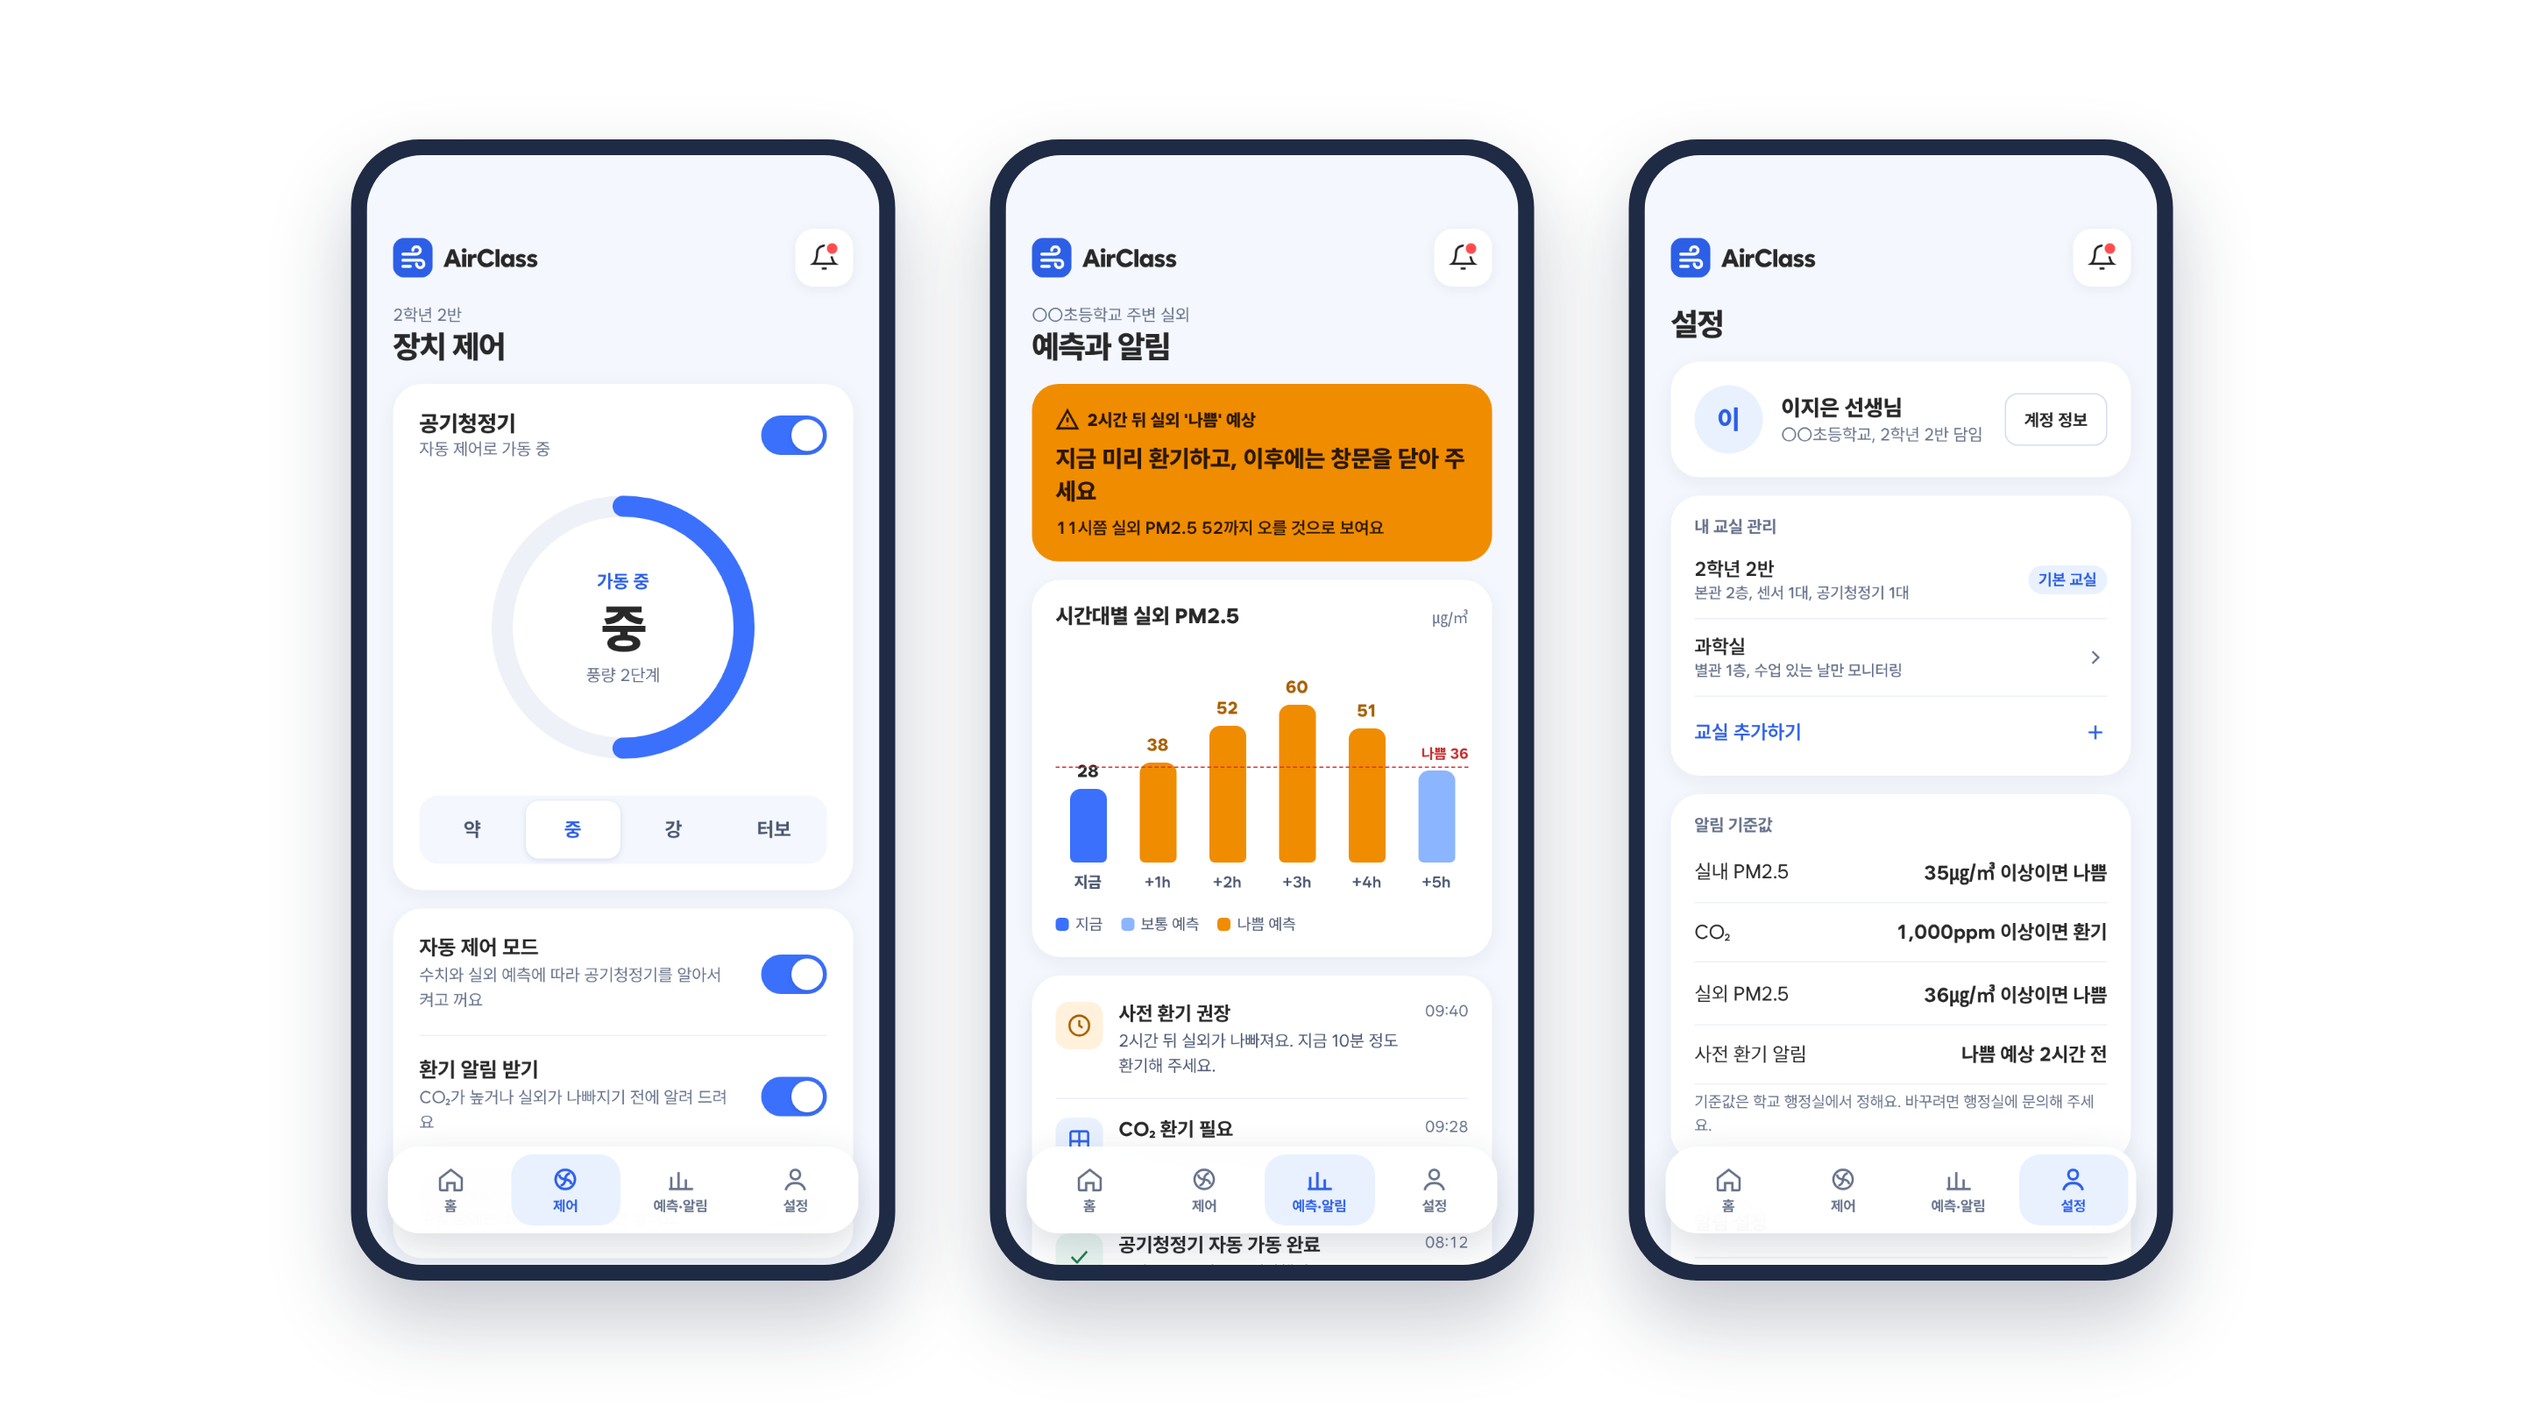
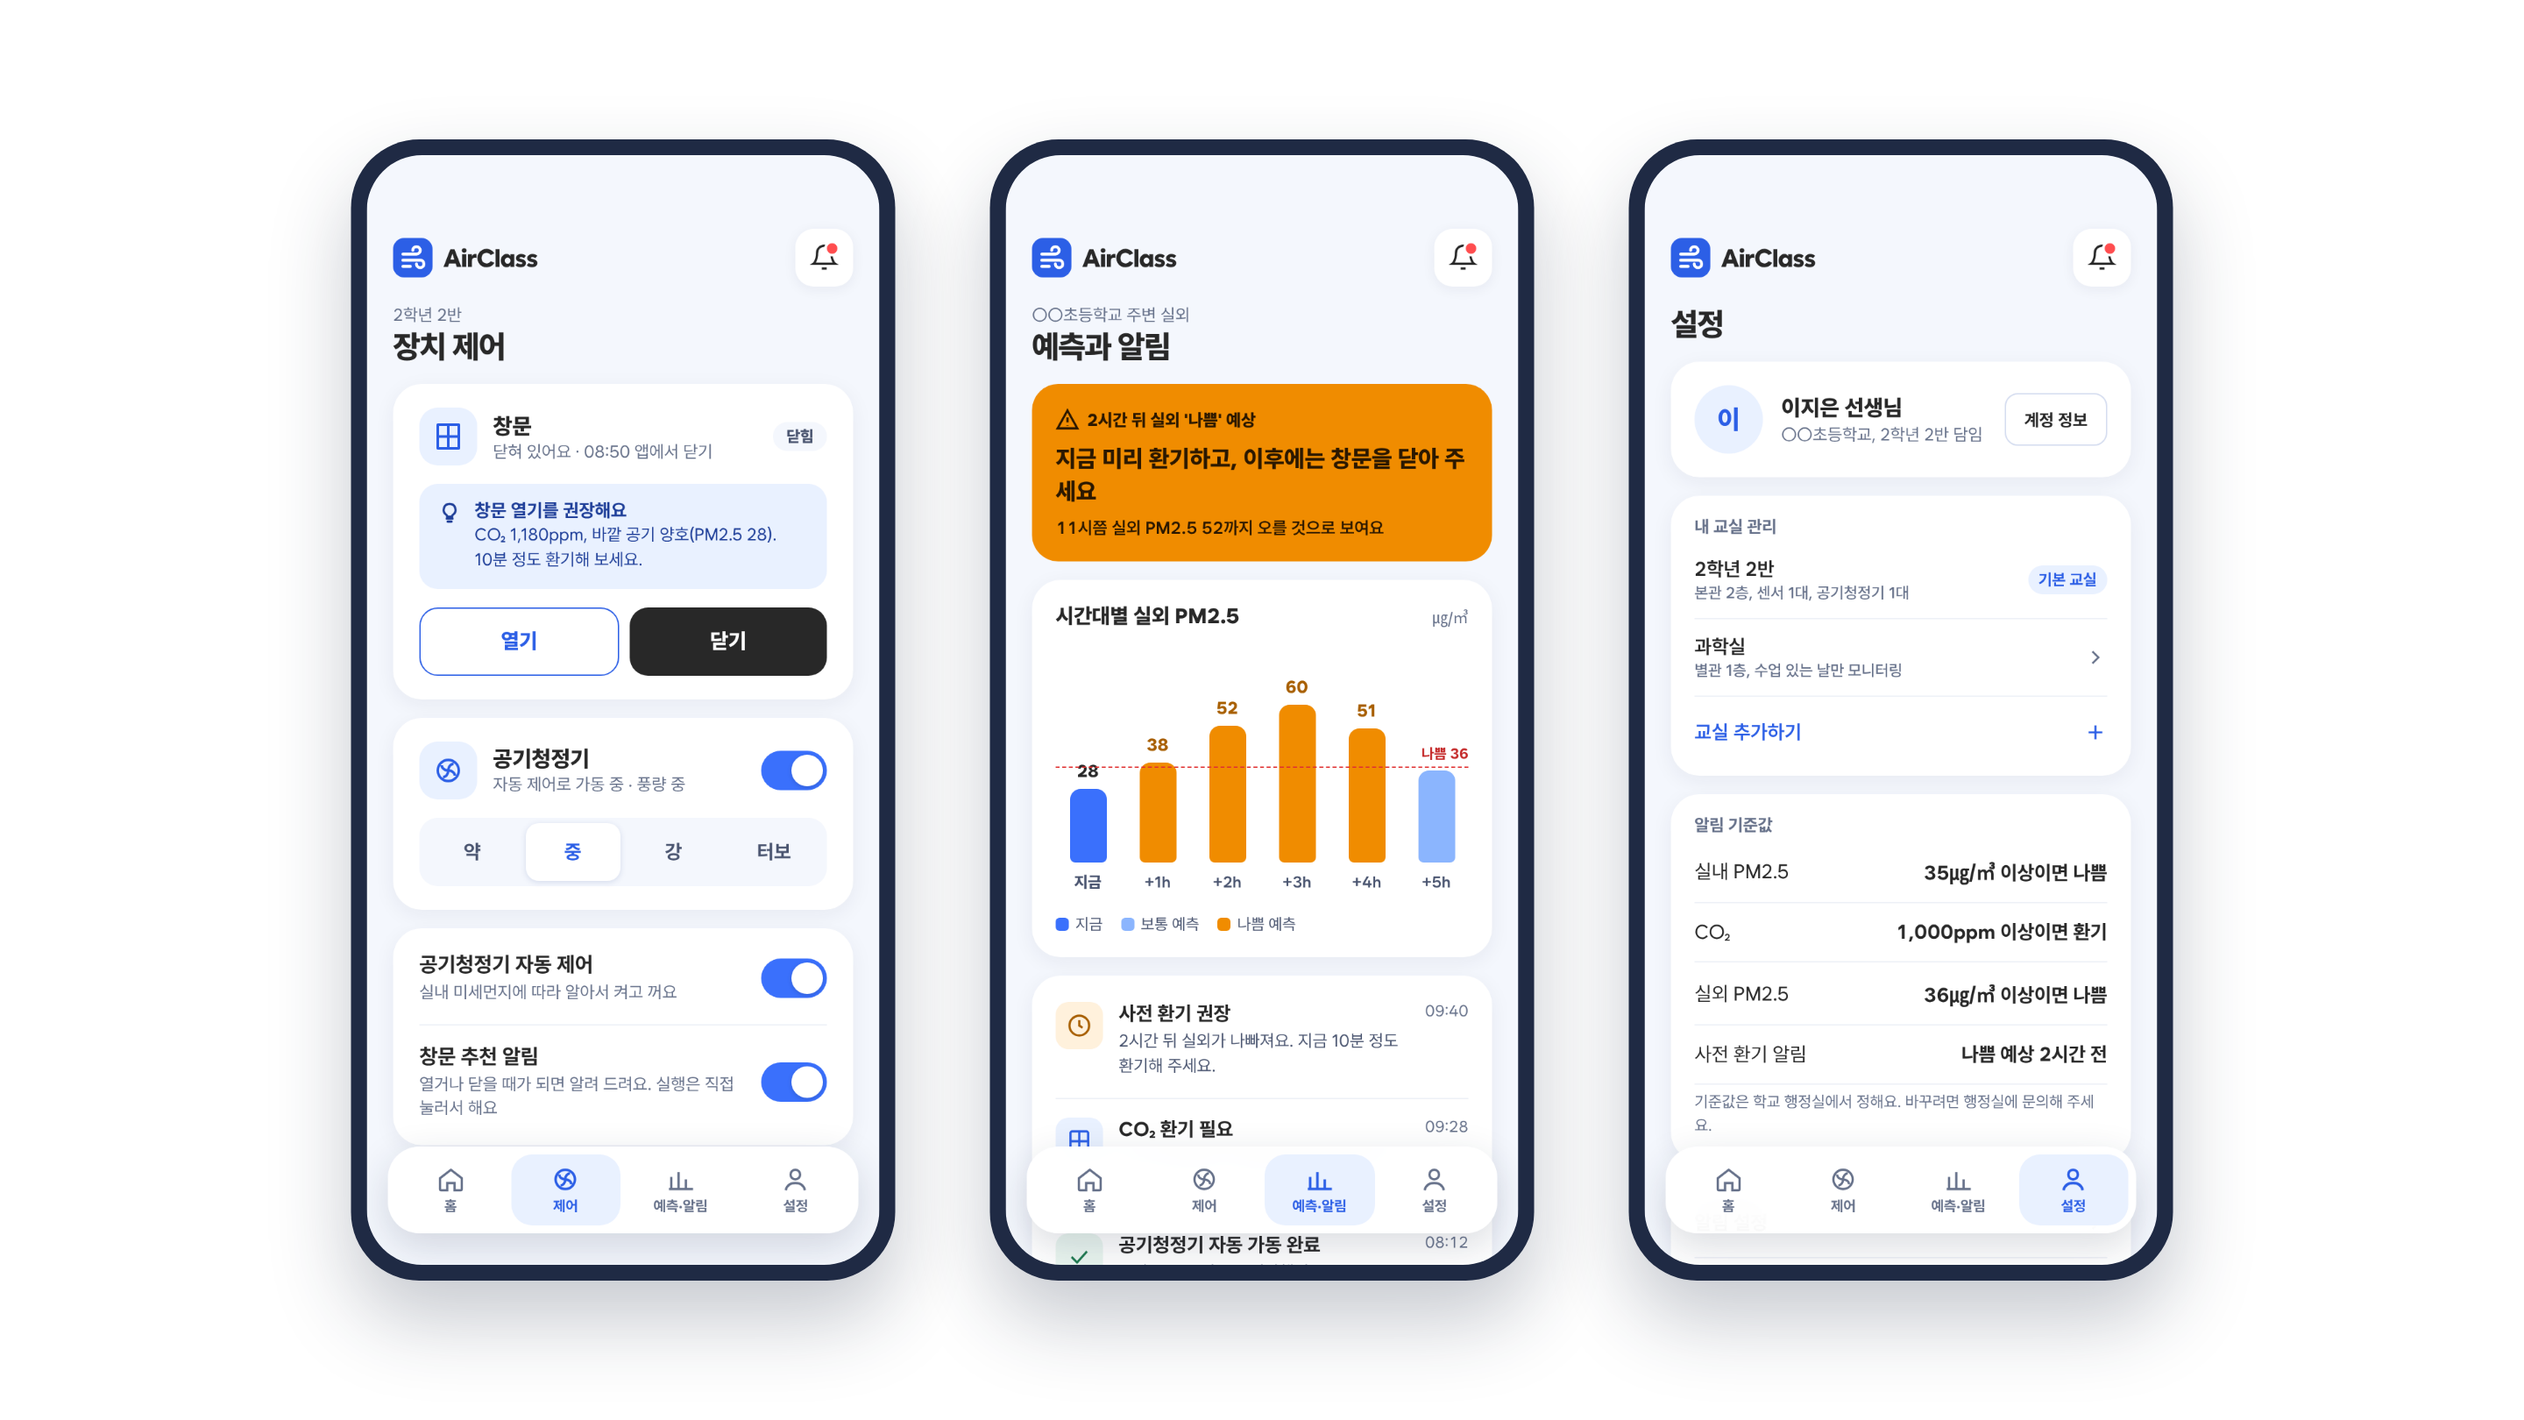
docs: README에 창문 반자동 제어 내용 추가

diff --git a/README.md b/README.md
@@ -1,7 +1,7 @@
 # 🌬 AirClass — 스마트 교실 공기질 관리 시스템
 
 > 교실 안 공기(PM2.5 · CO₂ · 온습도)와 바깥 미세먼지를 함께 보고,
-> **공기청정기를 자동으로 제어**하거나 **선생님께 환기 알림**을 보내는 IoT 시스템이에요. 🏫
+> **공기청정기를 자동으로 제어**하고, **창문 열기·닫기를 추천**해 선생님이 **버튼 한 번으로 실행**하게 하는 IoT 시스템이에요. 🏫
 
 ![React](https://img.shields.io/badge/React-19-61DAFB?logo=react&logoColor=white)
 ![Vite](https://img.shields.io/badge/Vite-8-646CFF?logo=vite&logoColor=white)
@@ -21,6 +21,7 @@
 - [주요 기능](#-주요-기능)
 - [시스템 구성](#-시스템-구성)
 - [상태 판정과 자동 제어 규칙](#-상태-판정과-자동-제어-규칙)
+- [창문 반자동 제어](#-창문-반자동-제어)
 - [화면 미리보기](#-화면-미리보기)
 - [기술 스택](#-기술-스택)
 - [폴더 구조](#-폴더-구조)
@@ -37,11 +38,12 @@
 
 AirClass는 **실내 값과 실외 값을 함께 판단**해서
 
-- 🪟 바깥 공기가 괜찮으면 → **"지금 환기해 주세요"** 알림
-- 🚫 바깥 공기가 나쁘면 → **"창문은 닫고 공기청정기를 켰어요"**
+- 🪟 바깥 공기가 괜찮으면 → **"창문 열기를 권장해요"** + [창문 열기] 버튼
+- 🚫 바깥 공기가 나쁘면 → **"창문 닫기를 권장해요"** + [창문 닫기] 버튼, 공기청정기 가동
 - 🌀 실내 미세먼지가 높으면 → **공기청정기 자동 가동**
 
-처럼 상황에 맞는 행동을 안내해요. 창문은 자동으로 여닫지 않고, **환기는 사람에게 알림으로만** 안내해요.
+처럼 상황에 맞는 행동을 안내해요. 창문은 **반자동**으로 제어해요. 시스템은 열기·닫기를 **추천만** 하고,
+실제로 여닫는 건 선생님(앱)이나 행정실(웹)이 **버튼을 눌러서** 해요. 학생이 있는 공간이라 창문이 저절로 움직이지 않게 했어요.
 
 ---
 
@@ -53,15 +55,15 @@ AirClass는 **실내 값과 실외 값을 함께 판단**해서
 |---|---|
 | 📊 **대시보드** | 요약 5개, 층별 교실 상태 맵, 선택 교실 상세 패널, 실외 미세먼지 그래프, 실시간 알림, **시연용 시나리오 버튼** |
 | 🔍 **교실별 모니터링** | 확인이 필요한 교실 카드, 검색 · 층 · 상태 필터, 정렬되는 24개 교실 표, 6시간 CO₂ 추이선, **CSV 내려받기** |
-| 🎛 **장치 제어** | 장치 현황, **일괄 제어 3단계**(대상 → 동작 → 확인), 공기청정기 모드 · 풍량 · 전원, 규칙 토글, 제어 기록 |
+| 🎛 **장치 제어** | 장치 현황(창문 열림 · 추천 수 포함), **일괄 제어 3단계**(대상 → 동작 → 확인, **창문 모두 닫기** 포함), 공기청정기 모드 · 풍량 · 전원, **교실별 창문 상태 · 열기/닫기 · 추천 표시**, 규칙 토글, 제어 기록 |
 | 🏷 **교실 상세** | 24시간 CO₂ / PM2.5 추이(탭 전환), 장치 제어 이력, 적용된 규칙 기록 |
 
 ### 📱 사용자 앱 (담임 선생님 · 390×844 기준)
 
 | 화면 | 할 수 있는 일 |
 |---|---|
-| 🏠 **홈** | 상태에 따라 바뀌는 히어로 색(정상 🔵 / CO₂ 높음 🟠 / 실외 나쁨 🌑), **움직이는 창문 그림**, 수치 카드 2×2, 지금 할 일, 실내·외 비교 |
-| 🌀 **제어** | 원형 풍량 게이지, 풍량 4단계, 자동화 토글 3개 |
+| 🏠 **홈** | 상태에 따라 바뀌는 히어로 색(정상 🔵 / CO₂ 높음 🟠 / 실외 나쁨 🌑), **움직이는 창문 그림**, **창문 카드(상태 + 추천 + 원탭 실행)**, 수치 카드 2×2, 실내·외 비교 |
+| 🌀 **제어** | **창문 [열기] [닫기]** + 추천, 공기청정기 전원 · 풍량 4단계, 토글 2개(공기청정기 자동 제어, 창문 추천 알림) |
 | 📈 **예측·알림** | 시간대별 실외 PM2.5 막대그래프, 내 교실 알림 목록 |
 | ⚙ **설정** | 내 교실 관리, 알림 기준값, 계정 정보 |
 
@@ -82,6 +84,7 @@ flowchart LR
     subgraph CLS["🏫 교실 (24곳)"]
         S1["📟 공기질 센서<br/>PM2.5 · CO₂ · 온습도"]
         P1["🌀 공기청정기"]
+        W1["🪟 창문 (서보모터)"]
     end
     OUT["🌫 실외 센서"]
     API["🛰 공공 API<br/>측정소 PM2.5"]
@@ -94,9 +97,11 @@ flowchart LR
     OUT --> BE
     API --> BE
     BE -->|켜기 / 끄기 / 풍량| P1
+    BE -->|열기 / 닫기<br/>사람이 누른 명령만| W1
     BE --> WEB["🖥 관리자 웹"]
     BE --> APP["📱 선생님 앱"]
-    APP -.->|🔔 환기 알림| T["👩🏫 담임 선생님"]
+    APP -.->|🔔 창문 추천| T["👩🏫 담임 선생님"]
+    T -.->|👆 원탭 실행| APP
 ```
 
 지금 프로토타입에서는 FastAPI 대신 **`shared/` 폴더**가 데이터와 규칙을 맡아요.
@@ -105,8 +110,8 @@ flowchart LR
 
 ```mermaid
 flowchart TB
-    D["📦 shared/dummyData.js<br/>교실 24개 · 실외값 · 알림 · 장치"]
-    R["🧠 shared/rules.js<br/>상태 판정 · 자동 제어 규칙"]
+    D["📦 shared/dummyData.js<br/>교실 24개 · 실외값 · 알림 · 공기청정기 · 창문"]
+    R["🧠 shared/rules.js<br/>상태 판정 · 자동 제어 규칙 · 창문 추천"]
     D --> WA["web/src/api.js"]
     R --> WA
     D --> AA["app/src/api.js"]
@@ -133,8 +138,8 @@ flowchart TB
 | 규칙 | 조건 | 동작 |
 |:---:|---|---|
 | 1⃣ | 실내 PM2.5 ≥ 35 | 🌀 공기청정기 ON (35 미만이면 OFF) |
-| 2⃣ | CO₂ ≥ 1,000 + 실외 양호 | 🪟 담임 선생님께 **환기 권장** 알림 |
-| 3⃣ | CO₂ ≥ 1,000 + 실외 나쁨 | 🚫 **환기 제한** 알림 + 공기청정기 가동 |
+| 2⃣ | CO₂ ≥ 1,000 + 실외 양호 | 🪟 **창문 열기 추천** (앱에서 눌러서 실행) |
+| 3⃣ | CO₂ ≥ 1,000 + 실외 나쁨 | 🚫 **창문 닫기 추천** + 공기청정기 가동 |
 | 4⃣ | 2시간 안에 실외 나쁨 예측 (ML) | 🔮 사전 환기 알림 — **향후 확장** |
 | 5⃣ | 모두 정상 | 😴 공기청정기 절전 대기 |
 
@@ -145,14 +150,47 @@ flowchart TD
     PM -->|아니오| CO2{"CO₂ ≥ 1,000?"}
     CO2 -->|아니오| R5["5⃣ 절전 대기"]
     CO2 -->|예| OUT{"실외 공기 양호?"}
-    OUT -->|예| R2["2⃣ 환기 권장 알림 🪟"]
-    OUT -->|"아니오 / 알 수 없음"| R3["3⃣ 환기 제한 + 공기청정기 ON"]
+    OUT -->|예| R2["2⃣ 창문 열기 추천 🪟"]
+    OUT -->|"아니오 / 알 수 없음"| R3["3⃣ 창문 닫기 추천 + 공기청정기 ON"]
 ```
 
 > [!TIP]
 > - 🖐 **수동 모드**인 장치는 자동 규칙이 건너뛰어요.
 > - 🌫 실외값은 **실외 센서가 우선**이에요. 센서 이상, 고습(80% 이상), 데이터 없음일 때는 **공공 API 값**으로 대신해요.
 > - ❓ 실외 상태를 알 수 없으면 안전하게 **"나쁨"으로 간주**해 창문을 닫아 두도록 안내해요.
+
+---
+
+## 🪟 창문 반자동 제어
+
+창문은 **시스템이 추천하고, 사람이 버튼으로 실행**해요.
+추천 로직은 `shared/rules.js`의 `recommendWindow()` 한 곳에 있고, 웹과 앱이 같은 함수를 써요.
+
+| 상황 | 추천 | 화면 |
+|---|---|---|
+| 🌫 실외 나쁨(또는 알 수 없음) + 창문 **열림** | 🚫 **닫기 추천** | 앱: 흰 카드 + [창문 닫기] / 웹: "창문 닫기를 권장해요" |
+| 💨 CO₂ ≥ 1,000 + 실외 양호 + 실내 PM2.5 정상 + 창문 **닫힘** | 🪟 **열기 추천** | 앱: 파란 카드 + [창문 열기] / 웹: 파란 [열기] 버튼 |
+| 그 밖의 경우 | 추천 없음 | 필요하면 직접 여닫기 가능 |
+| 🔌 제어 노드 연결 끊김 | 추천 없음 | 버튼 비활성, 상태 "알 수 없음" |
+
+```mermaid
+sequenceDiagram
+    participant S as 📟 센서
+    participant R as 🧠 규칙 엔진
+    participant A as 📱 선생님 앱
+    participant N as 🔧 제어 노드 (ESP32)
+    participant W as 🪟 창문 (서보)
+    S->>R: CO₂ 1,180ppm, 실외 PM2.5 28
+    R->>A: 💡 창문 열기를 권장해요
+    A->>N: 👆 [창문 열기] 눌렀을 때만 명령
+    N->>W: 서보 회전 (열림)
+    N-->>A: 상태 보고: 열림 ✅
+```
+
+> [!NOTE]
+> **왜 완전 자동이 아닌가요?** 학생이 있는 교실에서 창문이 저절로 닫히면 손 끼임 위험이 있어요.
+> 그래서 시스템은 판단과 추천까지만 하고, 실행은 사람이 승인하는 **반자동** 방식을 택했어요.
+> 시연은 **서보모터로 여닫는 축소 모형**으로 해요. 완전 자동은 설정 하나로 확장할 수 있게 구조를 열어 두었어요.
 
 ---
 
@@ -182,7 +220,8 @@ flowchart TD
 | 🔵 정상 | 🟠 CO₂ 높음 | 🌑 실외 나쁨 |
 |---|---|---|
 | 창문 닫힘 + ✅ 체크 | 창문 **열림** + 바람 ➡ | 창문 **닫힘** + 🚫 + 먼지 |
-| "공기가 깨끗해요" | "지금 창문을 열어 환기해 주세요" | "환기는 잠시 미루고 공기청정기를 가동했어요" |
+| "공기가 깨끗해요" | "환기가 필요해요" | "창문을 닫고 실내 공기를 정화할게요" |
+| 창문 카드: 추천 없음 | 💡 **창문 열기 추천** + [창문 열기] | 💡 **창문 닫기 추천** + [창문 닫기] |
 
 ### 📱 사용자 앱 — 제어 · 예측·알림 · 설정
 
@@ -222,8 +261,8 @@ airclass/
 ├── 📄 CLAUDE.md            # 프로젝트 규칙 (토큰, 판정 기준, 작업 규칙)
 ├── 🖼 docs/                # 디자인 기준 이미지
 ├── 🧠 shared/              # 웹·앱 공용 코드
-│   ├── dummyData.js       #   더미 데이터 (교실 24개, 실외값, 알림, 장치, 제어 기록)
-│   └── rules.js           #   상태 판정 + 자동 제어 규칙
+│   ├── dummyData.js       #   더미 데이터 (교실 24개, 실외값, 알림, 공기청정기 · 창문, 제어 기록)
+│   └── rules.js           #   상태 판정 + 자동 제어 규칙 + 창문 추천 (recommendWindow)
 ├── 🖥 web/                 # 관리자 웹 (React + Vite)
 │   └── src/
 │       ├── api.js         #   데이터 접근 창구 (→ 나중에 FastAPI)
@@ -235,6 +274,7 @@ airclass/
         ├── api.js         #   데이터 접근 창구 (→ 나중에 FastAPI)
         ├── motion.jsx     #   공용 모션 (FadeIn, PressScale, SlidingPill …)
         ├── WindowArt.jsx  #   상태별로 움직이는 창문 그림
+        ├── WindowCard.jsx #   창문 카드 (상태 + 추천 + 원탭 실행)
         ├── Splash.jsx     #   시작 애니메이션
         └── app/           #   expo-router 화면 (홈 · 제어 · 예측·알림 · 설정)
 ```
@@ -280,11 +320,14 @@ npx expo start     # QR 코드를 Expo Go로 스캔
 | ↩ **처음 상태로** | 기본 상태로 되돌려요 |
 
 버튼을 누르면 대시보드 · 모니터링 · 장치 제어 화면의 **숫자, 색, 알림이 함께** 바뀌어요.
+**실외 악화**를 누른 뒤 장치 제어 화면을 보면, 창문이 열린 교실(1-1, 2-5, 3-2)에 **닫기 추천**이 떠요.
+장치 제어 표에서 [열기]/[닫기]를 누르면 제어 기록에 "(추천 실행)"이 함께 남아요.
 
 ### 📱 앱 — 홈 아래 **시연용 상태 전환**
 
 **정상 → CO₂ 높음 → 실외 나쁨** 순서로 눌러 보세요. 히어로 색이 바뀌고,
 🪟 창문이 **열렸다가 닫히는** 애니메이션을 볼 수 있어요.
+각 상태에서 창문 카드의 **[창문 열기] / [창문 닫기]** 를 누르면 추천이 사라지고 "방금 창문을 열었어요/닫았어요"로 바뀌어요.
 
 ---
 
@@ -292,6 +335,7 @@ npx expo start     # QR 코드를 Expo Go로 스캔
 
 - [ ] 🍓 라즈베리파이 **FastAPI 백엔드** 연결 (`api.js` 교체)
 - [ ] 📟 실제 센서 · 공기청정기 연동
+- [ ] 🪟 축소 모형 창문 연동 (ESP32 제어 노드 + 서보모터 + 리밋 스위치로 실제 위치 보고)
 - [ ] 🔮 **규칙 4**: ML 기반 실외 미세먼지 예측 + 사전 환기 알림
 - [ ] 🔔 앱 푸시 알림
 - [ ] 🖥 웹 **미세먼지 예측 · 알림 이력 · 설정** 페이지
